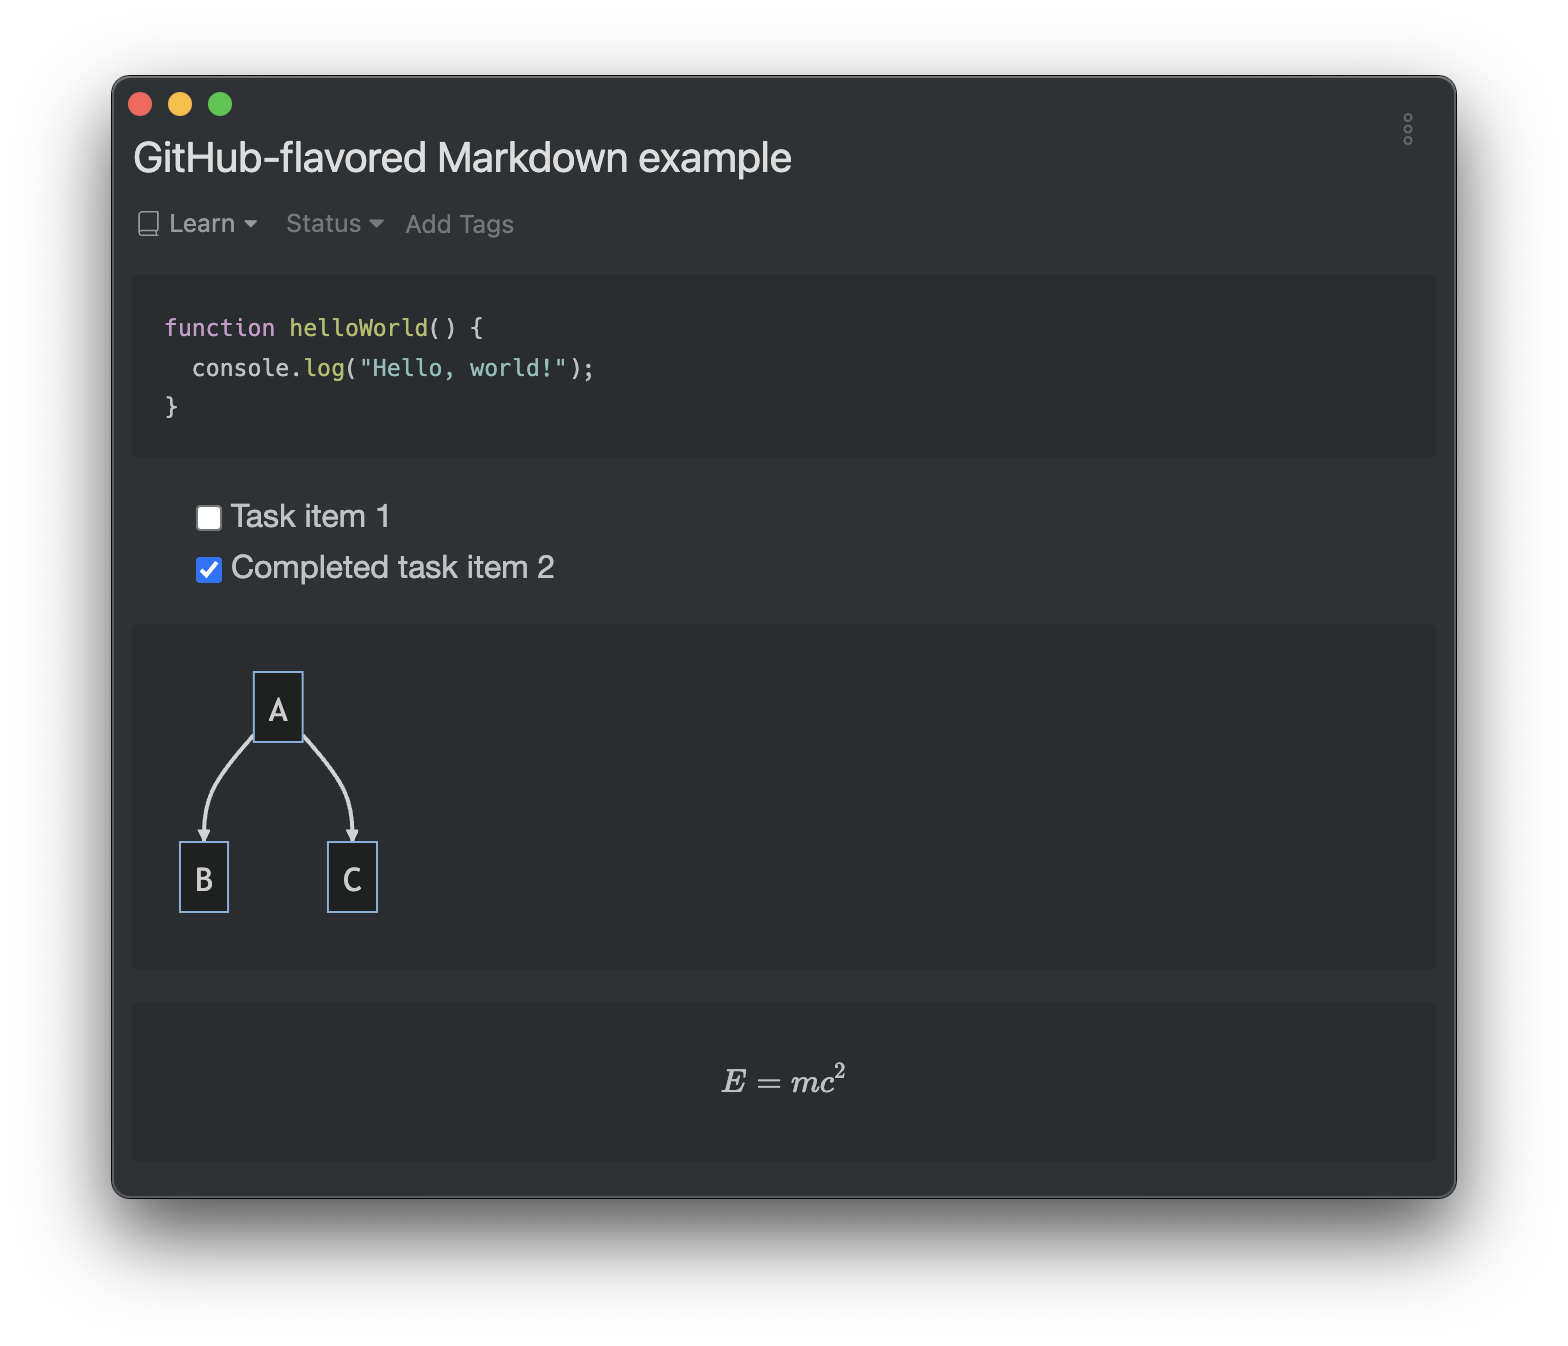
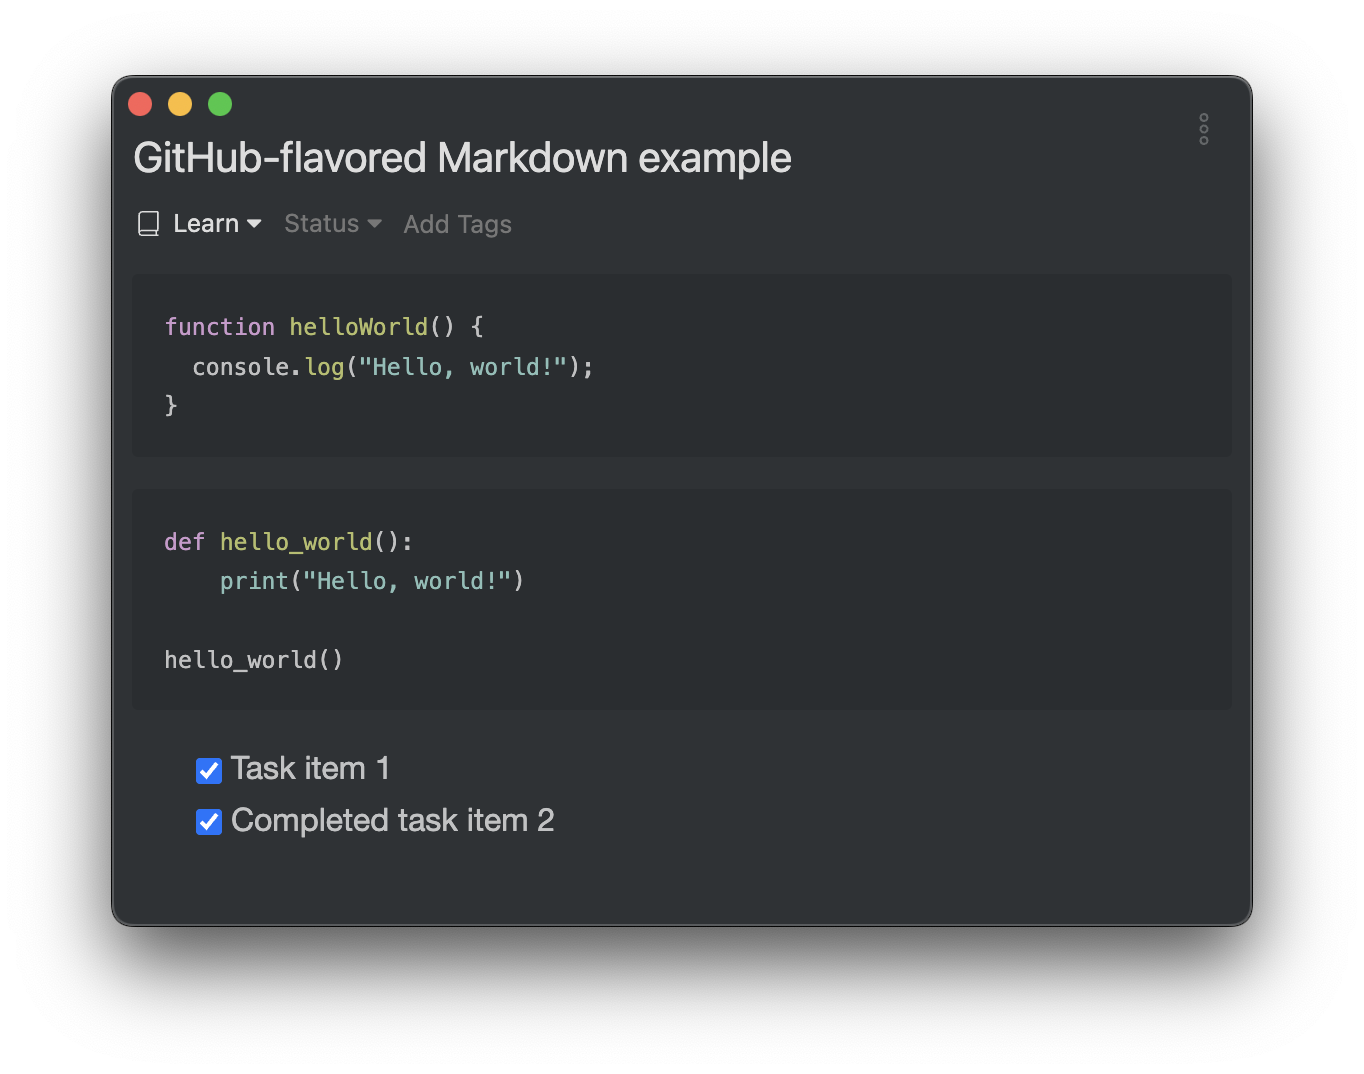
fix(start-guide): remove mermaid and math from the example
it should be mentioned later

diff --git a/src/app/start-guide/what-is-markdown/page.md b/src/app/start-guide/what-is-markdown/page.md
@@ -40,12 +40,12 @@ Please visit [my homepage](https://www.craftz.dog/)
 
 {% /snippet %}
 
-But if you're a programmer or diving into the tech world, you might often hear about "[GitHub-flavored Markdown](https://docs.github.com/en/get-started/writing-on-github/getting-started-with-writing-and-formatting-on-github/basic-writing-and-formatting-syntax)" or GFM for short. This is a particular style of Markdown with some added features tailored specifically for the needs of developers:
+But if you're a programmer or diving into the tech world, you might often hear about "[GitHub-flavored Markdown](https://docs.github.com/en/get-started/writing-on-github/getting-started-with-writing-and-formatting-on-github/basic-writing-and-formatting-syntax)" or GFM for short.
+GFM is created by [GitHub](https://github.com/), the world's largest online software development platform, for its users to help them write better documentation and discuss technical topics more effectively.
+It supports the following additional features:
 
 - **Code Blocks**: With GFM, you can easily insert blocks of code by wrapping them with three backticks (\```). This not only differentiates the code from the rest of the text but also applies syntax highlighting based on the language of the code.
 - **Task Lists**: Easily track to-dos using checkboxes.
-- **Mermaid**: An amazing feature that lets you generate diagrams and flowcharts from text-based descriptions. This is particularly useful for jotting down complex ideas visually.
-- **Math Expressions**: For those in more technical or scientific fields, GFM's support for math notation can be a lifesaver, allowing for LaTeX-style mathematical expressions.
 
 For example:
 
@@ -58,18 +58,15 @@ function helloWorld() {
 }
 \```
 
+\```python
+def hello_world():
+    print("Hello, world!")
+
+hello_world()
+\```
+
 - [ ] Task item 1
 - [x] Completed task item 2
-
-\```mermaid
-graph TD;
-    A-->B;
-    A-->C;
-\```
-
-\```math
-E = mc^2
-\```
 ````
 
 {% /snippet %}
@@ -78,7 +75,10 @@ It yields:
 
 ![GFM example](/images/what-is-markdown_gfm-example.png)
 
-It looks powerful yet simple, right? Inkdrop embraces these extended features of GitHub-flavored Markdown, ensuring that your notes can be as technical, detailed, and intricate as needed. This makes it perfect for jotting down everything from code snippets and algorithms to complex mathematical theories and flowcharts.
+It looks great, right?
+Inkdrop embraces these extended features of GitHub-flavored Markdown, making it a powerful tool for jotting down everything from code snippets, issues, and ideas, to day-to-day notes.
+
+Learn more about Markdown syntaxes in [Basic writing and formatting syntax](/writing/basic-writing-and-formatting-syntax).
 
 ## Markdown lets you avoid vendor lock-in and have access to a vast toolset
 
